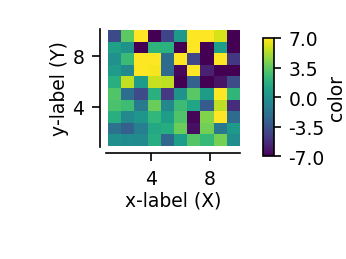
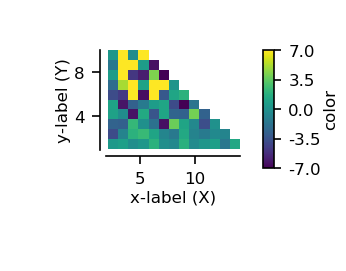
fixed convention (bottom-left orgining) in two D plotting

diff --git a/datavyz/surface_plots.py b/datavyz/surface_plots.py
@@ -14,8 +14,9 @@ def twoD_plot(graph,
               alpha=1.,
               vmin=None,
               vmax=None,
-              scale='log',
+              # scale='log',
               bar_legend=None,
+              aspect='equal',
               interpolation='none'):
     """
     surface plots for x, y and z 1 dimensional data
@@ -63,7 +64,7 @@ def twoD_plot(graph,
                    alpha=alpha,
                    cmap=colormap,
                    origin='lower',
-                   aspect='auto')
+                   aspect=aspect)
 
 
     """
@@ -85,25 +86,87 @@ def twoD_plot(graph,
     return fig, ax, acb
     
 
+def matrix(graph,
+           x, y=None, z=None,
+           ax=None, acb=None, fig=None,
+           diverging=False,
+           colormap=cm.viridis,
+           alpha=1.,
+           vmin=None, vmax=None,
+           bar_legend={}, # switch to None to make it disappear
+           aspect='equal', # switch to 'auto' if needed
+           interpolation='none'):
+
+    if (z is None) and (y is None):
+        z = x
+        x, y = np.meshgrid(np.arange(z.shape[0]), np.arange(z.shape[1]), indexing='ij')
+        
+    if (ax is None) and (acb is None):
+        fig, ax, acb = graph.figure(figsize=(.9,1), with_space_for_bar_legend=True)
+    else:
+        fig = plt.gcf()
+        
+    if diverging and (colormap==cm.viridis):
+        colormap = cm.PiYG # we switch to a diverging colormap
+
+    if vmin is None:
+        vmin=z.min()
+    if vmax is None:
+        vmax=z.max()
+
+    im = ax.imshow(z.T,
+                   interpolation=interpolation,
+                   extent = (x.min(), x.max(), y.min(), y.max()),
+                   vmin = vmin,
+                   vmax = vmax,
+                   alpha=alpha,
+                   cmap=colormap,
+                   origin='lower',
+                   aspect=aspect)
+    
+    if bar_legend is not None:
+        
+        for key, val in zip(['ticks', 'scale', 'label', 'labelpad'],
+                            [np.unique(np.round(np.linspace(vmin, vmax, 5), 1)),
+                             'linear', '', 1.]):
+            if key not in bar_legend:
+                bar_legend[key] = val
+                
+        build_bar_legend_continuous(acb, colormap,
+                                    bounds=[vmin, vmax],
+                                    scale=bar_legend['scale'],
+                                    ticks=bar_legend['ticks'],
+                                    label=bar_legend['label'],
+                                    labelpad=bar_legend['labelpad'])
+        
+    return fig, ax, acb
+
+
 if __name__=='__main__':
     
     from datavyz.main import graph_env
 
     ge = graph_env('manuscript')
 
-    x, y = np.meshgrid(np.arange(1, 11), np.arange(1, 11))
-    z = np.sqrt(x*y)
+    x, y = np.meshgrid(np.arange(1, 20), np.arange(1, 11), indexing='ij')
+    z = y
+
+    fig1, ax, _ = matrix(ge, z)
+    ge.set_plot(ax, xlabel='x-label (X)', ylabel='y-label (Y)')
+
+    
     x, y, z = np.array(x).flatten(),\
               np.array(y).flatten(),\
               np.array(z).flatten()*np.random.randn(len(z.flatten()))
-    index = np.arange(len(x))
-    np.random.shuffle(index)
+    index = (x<15) & (y<x)
+    # np.random.shuffle(index)
     x, y, z = x[index], y[index], z[index]
 
-    fig, ax, acb = ge.twoD_plot(x, y, z,
-                                vmin=-7, vmax=7,
-                                bar_legend={'label':'color',
-                                            'color_discretization':20})
+    fig2, ax, acb = twoD_plot(ge, x, y, z,
+                              vmin=-7, vmax=7,
+                              bar_legend={'label':'color',
+                                          'color_discretization':20})
     ge.set_plot(ax, xlabel='x-label (X)', ylabel='y-label (Y)')
-    fig.savefig('docs/surface-plot.png')
+    
+    fig2.savefig('docs/surface-plot.png')
     ge.show()

diff --git a/datavyz/dynamic_plot.py b/datavyz/dynamic_plot.py
@@ -71,7 +71,8 @@ def movie_plot(array,
         
     im = ax.imshow(array[0,:,:], cmap=cmap,
                    interpolation=None,
-                   aspect='equal', origin='lower')
+                   origin='lower',                
+                   aspect='equal')
     
     title = ax.annotate(annotation['text'] % time[0],
                         annotation['xy'],
@@ -116,12 +117,15 @@ if __name__=='__main__':
     #                              axes_args={'xlabel':'xlabel (xunit)',
     #                                         'ylabel':'ylabel (yunit)'})
 
+    # fig, ax, ani = movie_plot(np.random.randn(100, 50, 30),
+    #                           ge,
+    #                           time = np.linspace(0, 1, 100),
+    #                           annotation={'text':'t=%.1fs', 'xy':(.2,.7), 'color':ge.red},
+    #                           axes_args={'xlabel':'xlabel (xunit)',
+    #                                      'ylabel':'ylabel (yunit)'})
 
-    fig, ax, ani = movie_plot(np.random.randn(100, 30, 30),
-                              ge,
-                              time = np.linspace(0, 1, 100),
-                              annotation={'text':'t=%.1fs', 'xy':(.2,.7), 'color':ge.red},
-                              axes_args={'xlabel':'xlabel (xunit)',
-                                         'ylabel':'ylabel (yunit)'})
+    # fig, ax = ge.twoD_plot(np.arange(50), np.arange(30), np.random.randn(50, 30))
+    fig, ax = ge.image(np.random.randn(50, 30))
     
-    plt.show()
+    
+    ge.show()

diff --git a/datavyz/main.py b/datavyz/main.py
@@ -14,7 +14,7 @@ from datavyz import annotations, line_plots, scatter_plots, legend, features_plo
 from datavyz.cross_correl_plot import cross_correl_plot_func
 from datavyz.hist_plots import hist
 from datavyz.inset import add_inset, inset
-from datavyz.surface_plots import twoD_plot
+from datavyz.surface_plots import twoD_plot, matrix
 from datavyz.bar_plots import bar, related_samples_two_conditions_comparison, unrelated_samples_two_conditions_comparison
 from datavyz.pie_plots import pie
 import datavyz.single_cell_plots as scp
@@ -277,6 +277,10 @@ class graph_env:
     # twoD-plot with x-y axis from bottom left
     def twoD_plot(self, x, y, z, **args):
         return twoD_plot(self, x, y, z, **args)
+
+    def matrix(self, x, **args):
+        return matrix(self, x, **args)
+    
 
     # image plot
     def image(self, X, cmap=binary, alpha=1., ax=None, title=''):

diff --git a/datavyz/images.py b/datavyz/images.py
@@ -15,8 +15,10 @@ def load(image_path):
 
 if __name__=='__main__':
 
+
     from datavyz.main import graph_env
     ge = graph_env('visual_stim')
-    ge.image(load(sys.argv[-1]))
+    # ge.image(load(sys.argv[-1]))
+    ge.matrix(np.random.randn(100,20))
     ge.show()
     
